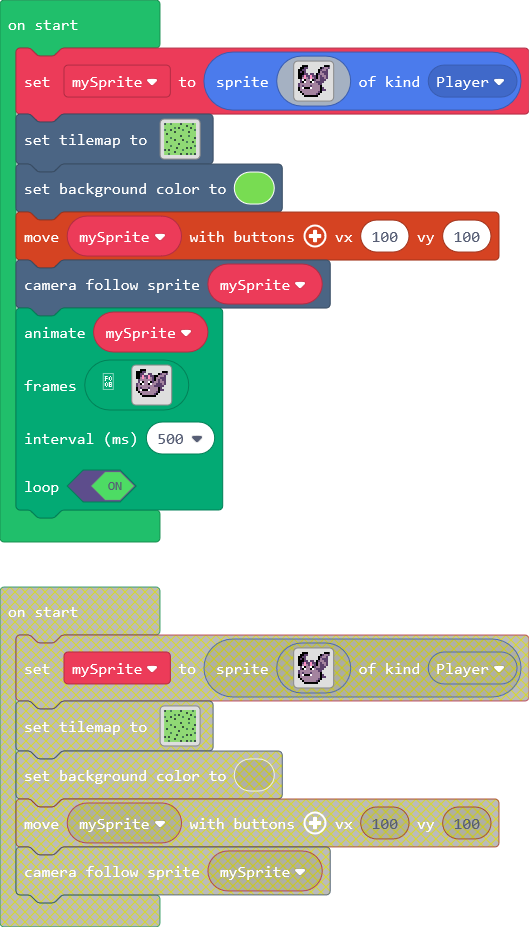
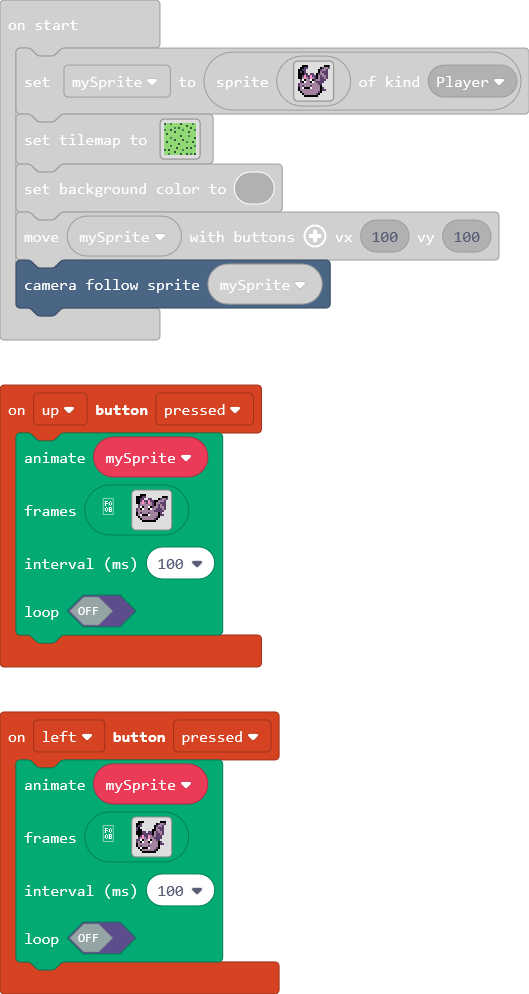
add animation with up and left buttons

diff --git a/main.ts b/main.ts
@@ -24,7 +24,44 @@ namespace myTiles {
 . . . . . . . . . . . . . . . . 
 `
 }
-let mySprite = sprites.create(img`
+controller.left.onEvent(ControllerButtonEvent.Pressed, function () {
+    animation.runImageAnimation(
+    mySprite,
+    [img`
+. f f f . . . . . . . . f f f . 
+f f c . . . . . . . f c b b c . 
+f c c . . . . . . f c b b c . . 
+c f . . . . . . . f b c c c . . 
+c f f . . . . . f f b b c c . . 
+f f f c c . c c f b c b b c . . 
+f f f c c c c c f b c c b c . . 
+. f c 3 c c 3 b c b c c c . . . 
+. c b 3 b c 3 b b c c c c . . . 
+c c 1 f b b 1 f b b c c . . . . 
+c b f 1 b b f 1 b b b f c . . . 
+f b b b b b b b b b b f c c . . 
+f b c b b b c b b b b f . . . . 
+. f 1 f f f 1 b b b c f . . . . 
+. . f b b b b b b c f . . . . . 
+. . . f f f f f f f . . . . . . 
+`,img`
+. . f f f . . . . . . . . . . . 
+f f f c c . . . . . . . . f f f 
+f f c c c . c c . . . f c b b c 
+f f c 3 c c 3 c c f f b b b c . 
+f f c 3 b c 3 b c f b b c c c . 
+f c b b b b b b c f b c b c c . 
+c c 1 b b b 1 b c b b c b b c . 
+c b b b b b b b b b c c c b c . 
+c b 1 f f 1 c b b c c c c c . . 
+c f 1 f f 1 f b b b b f c . . . 
+f f f f f f f b b b b f c . . . 
+f f 2 2 2 2 f b b b b f c c . . 
+. f 2 2 2 2 2 b b b c f . . . . 
+. . f 2 2 2 b b b c f . . . . . 
+. . . f f f f f f f . . . . . . 
+. . . . . . . . . . . . . . . . 
+`,img`
 . . f f f . . . . . . . . f f f 
 . f f c c . . . . . . f c b b c 
 f f c c . . . . . . f c b b c . 
@@ -32,45 +69,24 @@ f c f c . . . . . . f b c c c .
 f f f c c . c c . f c b b c c . 
 f f c 3 c c 3 c c f b c b b c . 
 f f b 3 b c 3 b c f b c c b c . 
-. c 1 f b b 1 f c b b c c c . . 
-. c f 1 b b f 1 b c c c c . . . 
+. c 1 b b b 1 b c b b c c c . . 
+. c 1 b b b 1 b b c c c c . . . 
 c b b b b b b b b b c c . . . . 
-c b c b b b c b b b b f . . . . 
-f b 1 f f f 1 b b b b f c . . . 
-f b b b b b b b b b b f c c . . 
-. f b b b b b b b b c f . . . . 
+c b 1 f f 1 c b b b b f . . . . 
+f f 1 f f 1 f b b b b f c . . . 
+f f 2 2 2 2 f b b b b f c c . . 
+. f 2 2 2 2 b b b b c f . . . . 
 . . f b b b b b b c f . . . . . 
 . . . f f f f f f f . . . . . . 
-`, SpriteKind.Player)
-tiles.setTilemap(tiles.createTilemap(
-            hex`1000100003060604060606060306060606060406060606060606060606060605060606060606060606040605060606060603060604060603060606060604060606060604060606060605060606060606050606060605060606060606060606060606060606060606060606060306060604060606060606040606060606060606060606030606060606050606060506060606060606030606060606060606060406060506060606060606060306060606060606060606060406060606060606060606060406060606060605060606060506030606030605060606060606040606060606060606060606030606060606060606060606060406060606060506060306040603`,
-            img`
-. . . . . . . . . . . . . . . . 
-. . . . . . . . . . . . . . . . 
-. . . . . . . . . . . . . . . . 
-. . . . . . . . . . . . . . . . 
-. . . . . . . . . . . . . . . . 
-. . . . . . . . . . . . . . . . 
-. . . . . . . . . . . . . . . . 
-. . . . . . . . . . . . . . . . 
-. . . . . . . . . . . . . . . . 
-. . . . . . . . . . . . . . . . 
-. . . . . . . . . . . . . . . . 
-. . . . . . . . . . . . . . . . 
-. . . . . . . . . . . . . . . . 
-. . . . . . . . . . . . . . . . 
-. . . . . . . . . . . . . . . . 
-. . . . . . . . . . . . . . . . 
-`,
-            [myTiles.tile0,sprites.builtin.forestTiles23,sprites.builtin.forestTiles20,sprites.castle.saplingOak,sprites.castle.shrub,sprites.castle.saplingPine,sprites.castle.tileGrass2],
-            TileScale.Sixteen
-        ))
-scene.setBackgroundColor(7)
-controller.moveSprite(mySprite, 100, 100)
-scene.cameraFollowSprite(mySprite)
-animation.runImageAnimation(
-mySprite,
-[img`
+`],
+    100,
+    false
+    )
+})
+controller.up.onEvent(ControllerButtonEvent.Pressed, function () {
+    animation.runImageAnimation(
+    mySprite,
+    [img`
 . . f f f . . . . . . . . . . . 
 f f f c c . . . . . . . . f f f 
 f f c c . . c c . . . f c b b c 
@@ -122,6 +138,52 @@ f b c b b b c b b b b f . . . .
 . . f b b b b b b c f . . . . . 
 . . . f f f f f f f . . . . . . 
 `],
-500,
-true
-)
+    100,
+    false
+    )
+})
+let mySprite: Sprite = null
+mySprite = sprites.create(img`
+. . f f f . . . . . . . . f f f 
+. f f c c . . . . . . f c b b c 
+f f c c . . . . . . f c b b c . 
+f c f c . . . . . . f b c c c . 
+f f f c c . c c . f c b b c c . 
+f f c 3 c c 3 c c f b c b b c . 
+f f b 3 b c 3 b c f b c c b c . 
+. c 1 f b b 1 f c b b c c c . . 
+. c f 1 b b f 1 b c c c c . . . 
+c b b b b b b b b b c c . . . . 
+c b c b b b c b b b b f . . . . 
+f b 1 f f f 1 b b b b f c . . . 
+f b b b b b b b b b b f c c . . 
+. f b b b b b b b b c f . . . . 
+. . f b b b b b b c f . . . . . 
+. . . f f f f f f f . . . . . . 
+`, SpriteKind.Player)
+tiles.setTilemap(tiles.createTilemap(
+            hex`1000100003060604060606060306060606060406060606060606060606060605060606060606060606040605060606060603060604060603060606060604060606060604060606060605060606060606050606060605060606060606060606060606060606060606060606060306060604060606060606040606060606060606060606030606060606050606060506060606060606030606060606060606060406060506060606060606060306060606060606060606060406060606060606060606060406060606060605060606060506030606030605060606060606040606060606060606060606030606060606060606060606060406060606060506060306040603`,
+            img`
+. . . . . . . . . . . . . . . . 
+. . . . . . . . . . . . . . . . 
+. . . . . . . . . . . . . . . . 
+. . . . . . . . . . . . . . . . 
+. . . . . . . . . . . . . . . . 
+. . . . . . . . . . . . . . . . 
+. . . . . . . . . . . . . . . . 
+. . . . . . . . . . . . . . . . 
+. . . . . . . . . . . . . . . . 
+. . . . . . . . . . . . . . . . 
+. . . . . . . . . . . . . . . . 
+. . . . . . . . . . . . . . . . 
+. . . . . . . . . . . . . . . . 
+. . . . . . . . . . . . . . . . 
+. . . . . . . . . . . . . . . . 
+. . . . . . . . . . . . . . . . 
+`,
+            [myTiles.tile0,sprites.builtin.forestTiles23,sprites.builtin.forestTiles20,sprites.castle.saplingOak,sprites.castle.shrub,sprites.castle.saplingPine,sprites.castle.tileGrass2],
+            TileScale.Sixteen
+        ))
+scene.setBackgroundColor(7)
+controller.moveSprite(mySprite, 100, 100)
+scene.cameraFollowSprite(mySprite)
